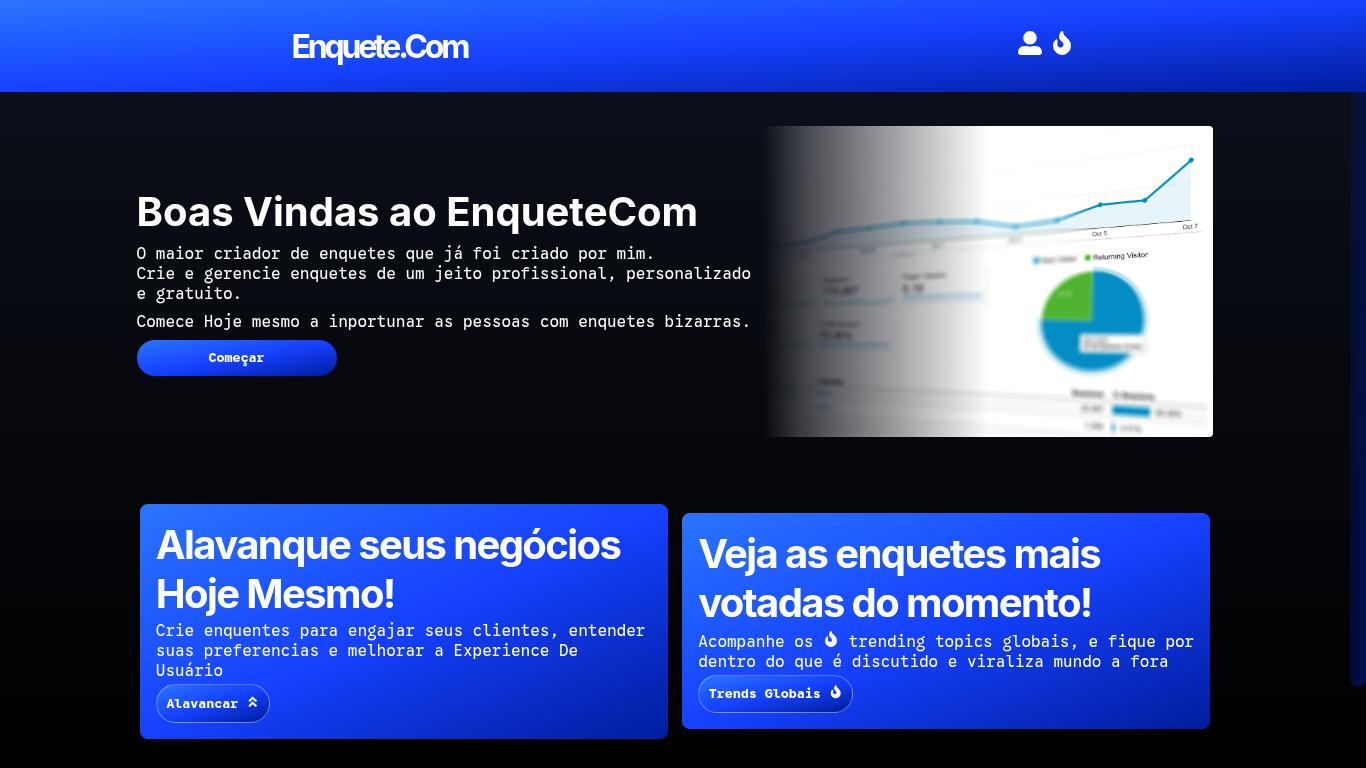
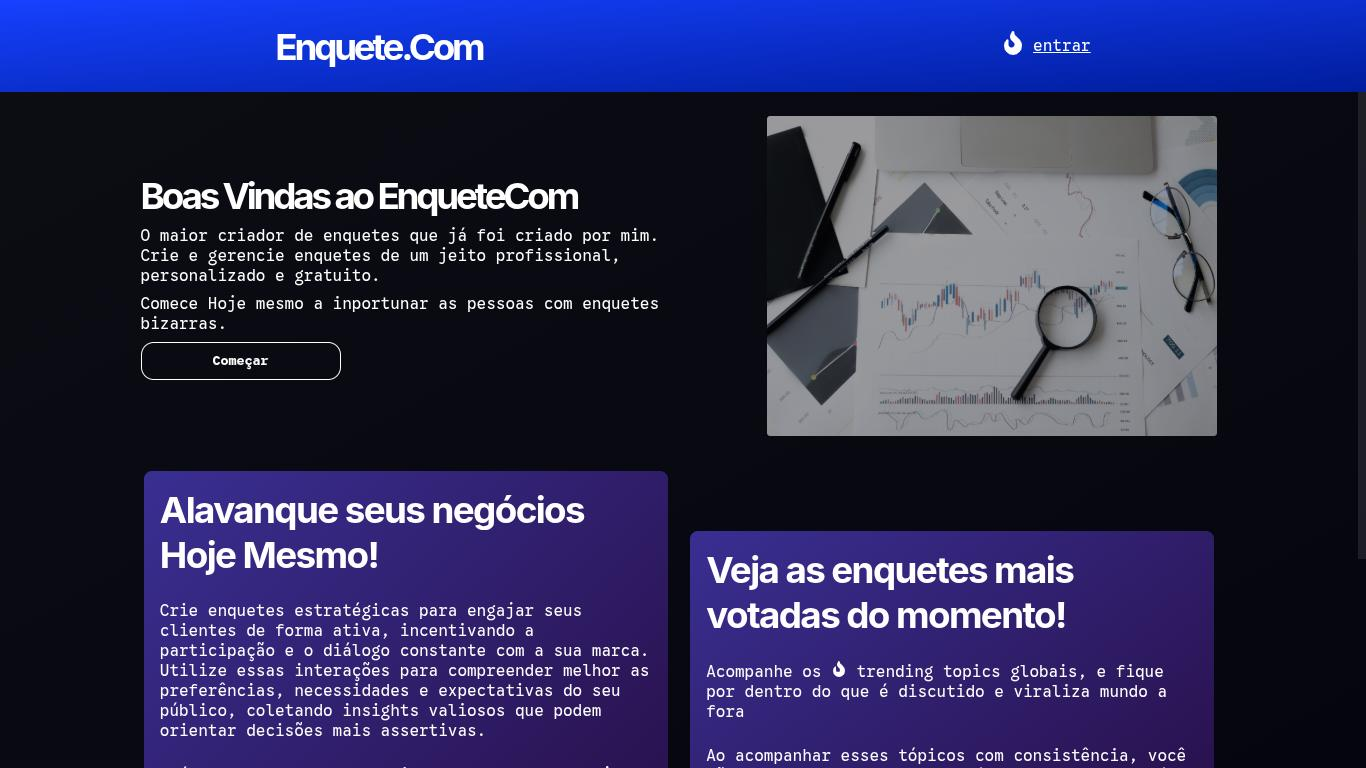
Atualização de Interface

diff --git a/frontend/src/components/Logins/RegistrationForm.tsx b/frontend/src/components/Logins/RegistrationForm.tsx
@@ -45,38 +45,42 @@ function RegistrationForm(){
     return (
         <section className={styles.formSection}>
             <Card>
-                <form onSubmit={handleSubmit}>
+                <form onSubmit={handleSubmit} className={styles.form}>
                     <h1>Antes Precisamos te conhecer! é Rapidinho...</h1>
-                    <h2>Dados Básicos:</h2>
-                    
-                    <input
-                        className={styles.formInput}
-                        type="text"
-                        name="nome"
-                        value={dados.nome}
-                        onChange={handleChange}
-                        placeholder="Informe seu nome..."
-                    />
-                    
-                    <input
-                        className={styles.formInput}
-                        type="text"
-                        name="email"
-                        value={dados.email}
-                        onChange={handleChange}
-                        placeholder="Digite seu email..."
-                    />
 
-                    <h2>Crie Uma Senha:</h2>
-                    <input
-                        className={styles.formInput}
-                        type="text"
-                        name="senha"
-                        value={dados.senha}
-                        onChange={handleChange}
-                        placeholder="Crie uma senha forte..."
-                    />
-
+                    <div className={styles.fields}>
+                        <h2>Dados Básicos:</h2>
+                        <input
+                            className={styles.formInput}
+                            type="text"
+                            name="nome"
+                            value={dados.nome}
+                            onChange={handleChange}
+                            placeholder="Informe seu nome..."
+                        />
+                        
+                        <input
+                            className={styles.formInput}
+                            type="text"
+                            name="email"
+                            value={dados.email}
+                            onChange={handleChange}
+                            placeholder="Digite seu email..."
+                        />
+                    </div>
+                    
+                    <div className={styles.fields}>
+                         <h2>Crie Uma Senha:</h2>
+                        <input
+                            className={styles.formInput}
+                            type="text"
+                            name="senha"
+                            value={dados.senha}
+                            onChange={handleChange}
+                            placeholder="Crie uma senha forte..."
+                        />
+                    </div>
+                   
                     {formValido && (
                         <Button type="submit">Tudo Pronto</Button>
                     ) || (

diff --git a/frontend/src/components/GenericApresentation/Apresentation.tsx b/frontend/src/components/GenericApresentation/Apresentation.tsx
@@ -46,21 +46,24 @@ function Apresentation(){
             <section className={styles.secao}>
                 <Card>
                     <h1 className={styles.titulo}>Alavanque seus negócios Hoje Mesmo!</h1>
-                    <p>Crie enquentes para engajar seus clientes, entender suas preferencias e melhorar a Experience De Usuário</p>
+                    <p>Crie enquetes estratégicas para engajar seus clientes de forma ativa, incentivando a participação e o diálogo constante com a sua marca. Utilize essas interações para compreender melhor as preferências, necessidades e expectativas do seu público, coletando insights valiosos que podem orientar decisões mais assertivas.</p>
+                        
+                    <p>Além de aumentar o envolvimento, as enquetes ajudam a construir um relacionamento mais próximo e personalizado com os usuários. Ao analisar as respostas, você consegue identificar padrões de comportamento e oportunidades de melhoria, permitindo ajustes contínuos nos seus produtos, serviços ou comunicação.
+                    </p>
                     <Button>Alavancar <FaAngleDoubleUp /></Button>
                 </Card>
 
                 <Card>
                     <h1 className={styles.titulo}>Veja as enquetes mais votadas do momento!</h1>
                     <p>Acompanhe os <FaFire /> trending topics globais, e fique por dentro do que é discutido e viraliza mundo a fora</p>
+                    <p>Ao acompanhar esses tópicos com consistência, você não apenas entende o que está em alta, mas também consegue antecipar tendências, adaptar sua comunicação e criar conteúdos mais relevantes, aumentando seu alcance e conexão com o público.</p>
                     <Button onClick={()=> window.location.href = "/trends"}>Trends Globais <FaFire /></Button>
                 </Card>
 
             </section>
 
-            <section className={styles.secao}>
-                <p>@SamuelDevelop | Projeto Pessoal - 2026</p>
-                <p>Images from Pexels</p>
+            <section className={`${styles.secao} ${styles.creditos}`}>
+                <p>@SamuelDevelop 2026 | Projeto Pessoal</p>
             </section>
         </>
     )

diff --git a/frontend/src/components/Header/Header.tsx b/frontend/src/components/Header/Header.tsx
@@ -1,18 +1,31 @@
+import { useState } from "react";
 import styles from "./Header.module.css"
 import { FaUserAlt } from "react-icons/fa";
 import { FaFire } from "react-icons/fa";
 
 function Header(){
+
+    const [isUserLogado, setIsUserLogado] = useState<boolean>(false);
+
     return  (
         <header className={styles.header}>
             <div className={styles.logo}>
                 <h1>Enquete.Com</h1>
             </div>
             
-            <nav className={styles.headerOptions}>
-                <a className={styles.option} href="/createAccount"><FaUserAlt /></a>
-                <a className={styles.option} href="/trends"><FaFire /></a>
-            </nav>
+            {
+                isUserLogado ?
+                <nav className={styles.headerOptions}>
+                    <a className={styles.option} href="/trends"><FaFire /></a>
+                    <a className={styles.option} href="/createAccount"><FaUserAlt /></a>
+                </nav> 
+                :
+                <nav className={styles.headerOptions}>
+                    <a className={styles.option} href="/trends"><FaFire /></a>
+                    <a className={styles.option} href="/createAccount"><p>entrar</p></a>
+                </nav>            
+            }
+            
         </header>
     )
 }

diff --git a/frontend/src/main.css b/frontend/src/main.css
@@ -1,6 +1,7 @@
 :root{
-    --gradAzulPadrao: linear-gradient(to bottom right, rgb(42, 116, 255), rgb(22, 65, 255), rgb(0, 29, 156));
-    --gradAzulDark: linear-gradient(to bottom right, rgba(22, 65, 255, 0.055), rgb(0, 15, 83));
+    --gradAzulPadrao: linear-gradient(to bottom right, rgb(22, 65, 255), rgb(0, 29, 156));
+    --gradAzulDark: linear-gradient(to bottom right, rgb(13, 14, 20), rgb(4, 5, 14));
+    --gradVineColor: linear-gradient(to bottom right, rgb(57, 47, 146), rgb(38, 11, 63));
 }
 
 * {
@@ -13,7 +14,20 @@ html, body{
 
 body{
     width: 100vw; height: 100vh;
-    background-image: linear-gradient(rgb(14, 17, 29), rgb(0, 0, 0));
+    background-image: var(--gradAzulDark);
+}
+
+h1{
+    font-family: "Inter", sans-serif;
+    letter-spacing: -0.2rem;
+    color: white;
+    font-size: 2.3rem;
+}
+
+
+p, a {
+    text-decoration: none;
+    font-family: "Google Sans Code", monospace;
 }
 
 main{

diff --git a/frontend/src/components/GenericButton/Button.module.css b/frontend/src/components/GenericButton/Button.module.css
@@ -1,20 +1,22 @@
 .button{
-    background-image: var(--gradAzulPadrao);
+    background-color: transparent;
     font-family: "Google Sans Code", monospace;
     color: white;
     font-weight: bolder;
+    border: 1px solid white;
 
     outline: none;
-    border: none;
-    border-radius: 8rem;
+    
+    border-radius: .8rem;
     padding: 0.6rem;
     cursor: pointer;
-    transition: all ease-in-out 100ms;
+    transition: all ease-in-out 50ms;
+    
     max-width: 200px;
 }
 
 .button:hover{
-    background-image: linear-gradient(white, rgb(167, 167, 167));
-    color: rgb(22, 65, 255);
+    background-image: var(--gradAzulPadrao);
+    border: 1px solid rgba(255, 255, 255, 0.308);
 }
 

diff --git a/frontend/src/components/GenericApresentation/Apresentation.module.css b/frontend/src/components/GenericApresentation/Apresentation.module.css
@@ -7,17 +7,7 @@
     display: flex;
     flex-direction: row;
     align-items: center;
-    gap: 0.5rem;
-}
-
-.secao *{
-    flex: 1 1;
-}
-
-.titulo{
-    font-family: "Inter", sans-serif;
-    color: white;
-    font-size: 30pt;
+    gap: 1rem;
 }
 
 .text{
@@ -29,10 +19,15 @@
 .sectionImage{
     width: 450px; height: 320px;
     border-radius: 0.2rem;
-    mask-image: linear-gradient(to left, black 50%, rgba(0, 0, 0, 0.253) 90%, transparent);
+    opacity: 0.6;
 }
 
 .secao p {
     font-family: "Google Sans Code", monospace;
     color: white;
+}
+
+.creditos{
+    align-items: center;
+    justify-content: center;
 }

diff --git a/frontend/src/components/Logins/Forms.module.css b/frontend/src/components/Logins/Forms.module.css
@@ -7,19 +7,30 @@
     gap: 1rem;
 }
 
+
 .formSection p{
     font-family: "Google Sans Code", monospace;
     color: rgb(255, 255, 255);
 }
 
+.form {
+    gap: 2rem;
+}
+
+.fields{
+    display: flex;
+    flex-direction: row;
+    gap: 0.4rem;
+    width: 100%;
+}
 
 .formInput{
-    background-color: rgb(255, 255, 255);
+    color: white;
+    background-color: transparent;
     padding: 0.4rem;
     border-radius: 0.8rem;
-    border: 2px solid rgb(0, 29, 156);
+    border: 1px solid rgb(255, 255, 255);
     outline: none;
 
     font-family: "Google Sans Code", monospace;
-    color: rgb(0, 29, 156);
 }

diff --git a/frontend/src/components/Card/Card.module.css b/frontend/src/components/Card/Card.module.css
@@ -4,15 +4,22 @@
     justify-content: center;
     align-items: flex-start;
     padding: 1rem;
-    gap: 0.2rem;
+    gap: 1.5rem;
     margin: 0.2rem;
 
-    background-image: var(--gradAzulPadrao);
+    flex: 1;
+
+    box-sizing: border-box;
+    background-image: var(--gradVineColor);
     border-radius: 0.5rem;
 }
 
 .Card button{
     border: rgba(255, 255, 255, 0.329) 1px solid;
+}
+
+.Card button:hover{
+    background-image: var(--gradAzulDark);
 }
 
 .Card *{
@@ -35,5 +42,6 @@
 .Card form{
     display: flex;
     flex-direction: column;
-    gap: 0.2rem;
+
+    padding: 2rem 2.5rem;
 }

diff --git a/frontend/src/components/Header/Header.module.css b/frontend/src/components/Header/Header.module.css
@@ -22,6 +22,11 @@
     gap: 0.5rem;
 }
 
+.option p{
+    font-size: 1rem;
+    text-decoration: underline;
+}
+
 .option {
     font-size: 24px;
     color: rgb(255, 255, 255);
@@ -29,13 +34,7 @@
 }
 
 .option:hover{
-    font-size: 28px;
     color: rgba(255, 255, 255, 0.486);
 }
 
-.logo h1{
-    font-family: "Inter", sans-serif;
-    letter-spacing: -0.2rem;
-    color: white;
-}
 

diff --git a/backend/src/server.ts b/backend/src/server.ts
@@ -7,7 +7,6 @@ const app = express()
 app.use(cors())
 app.use(express.json())
 
-
 app.use("/usuarios", userRoutes)
 
 app.listen(3000, () => {
